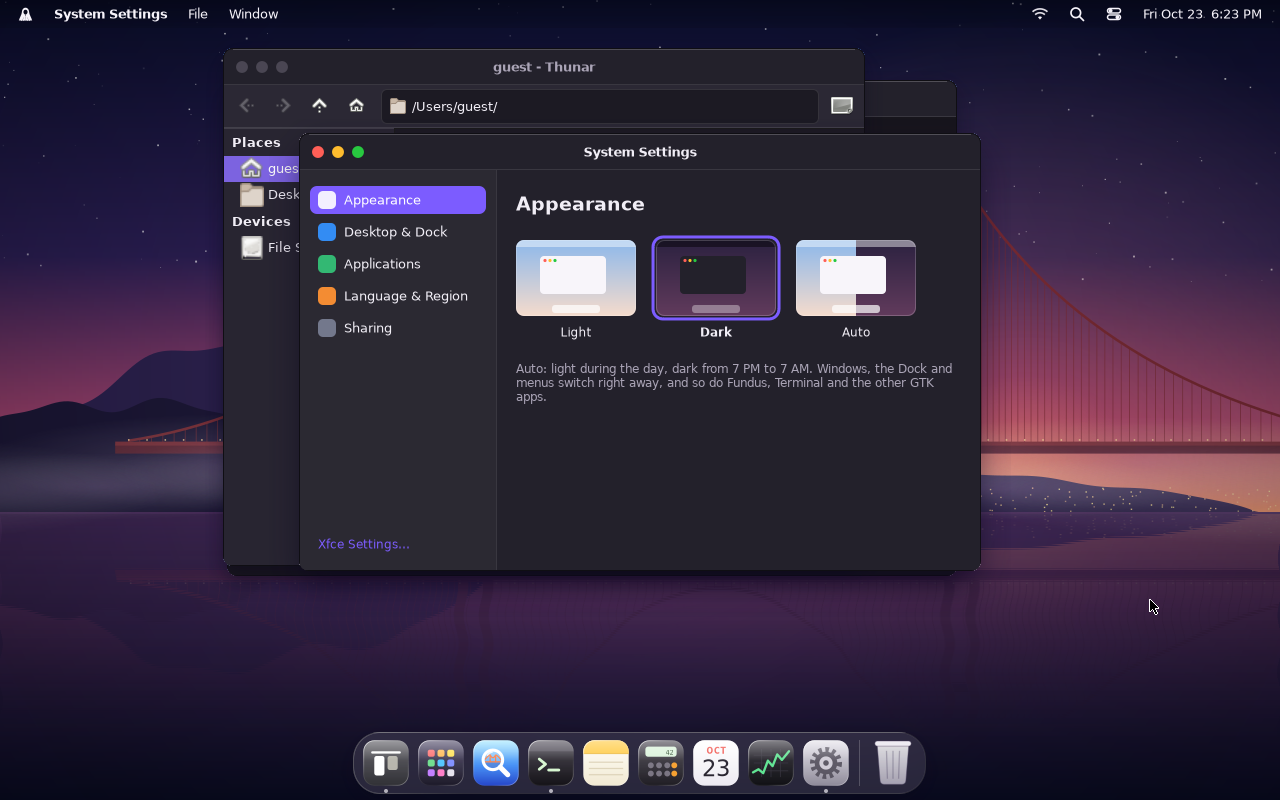
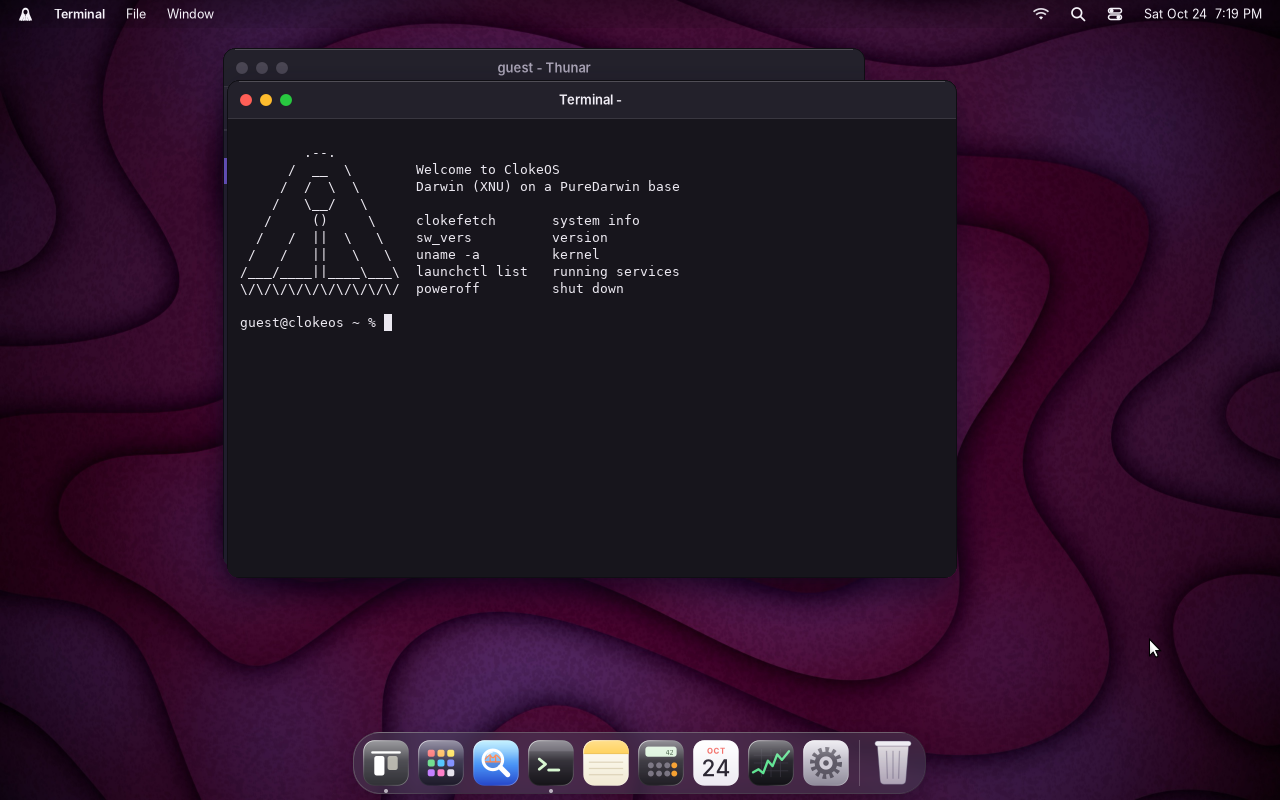
README: new wallpaper, multi-core, I2C touchpad and payload driver; new screenshots

diff --git a/README.md b/README.md
@@ -118,7 +118,7 @@ cd clokeos-darwin && CLOKEOS_FLAVOR=desktop ./brand.sh && CLOKEOS_FLAVOR=desktop
 
 CloakServer (`clokeos-darwin/cloakserver/`) is ClokeOS' window server, for now an X11 window manager with its own UI, written in C with Xlib, cairo, pango and librsvg:
 
-- Wallpaper "Golden Gate": `drawBay()` from `clokeos.html` ported line by line to cairo (`wall.c`) with the same random generator, so stars, lights and fog sit in the same places; light by day, dark from 7 pm to 7 am
+- Wallpaper: pink papercut layers (`wallpapers/make.swift` builds the light and the plum dark variant from the artwork into `overlay-desktop/Library/ClokeOS/Wallpapers/`, `wall.c` draws it covering the screen); the old "Golden Gate" bridge stays as a fallback if the files are missing. The HTML prototype still has the bridge
 - Menu bar: ClokeOS menu (About ClokeOS, System Settings, Activity Monitor, Applications, Sleep, Restart…, Shut Down…, Restart in Recovery…, Log Out), the active app's name and menus, network with IP address, search (opens Launchpad), appearance (auto, light, dark), clock with date
 - Global menu bar as on macOS: the active app's menus sit at the top next to the cape, not in the window, with submenus, check marks and shortcuts written as on macOS (⌃⌥⇧⌘). GTK apps like Fundus (Thunar) and Terminal export their menu bar via the GTK module `appmenu-gtk-module` over D-Bus (from vala-panel-appmenu 25.04, LGPL-3, with a small patch, `menubar/appmenu-clokeos.patch`); the helper `cloakmenu` reads it as the logged-in user and passes it to CloakServer. Mac apps put their menu into the window property `_CLOKE_MENU`; Darling's AppKit does that (`macapps/appkit/clokemenu.m`)
 - Language as on macOS: English by default, German in System Settings > Language & Region and in the setup assistant. CloakServer, login, menu bar and app names switch immediately; date and clock follow the language. Strings are English in the code, `L()` translates them (`cloakserver/l10n.c`, translations in `strings-de.h`, also for the installer; `cloakserver/l10n-check.py` reports missing ones). App bundles have English names (Notes.app, Calculator.app …), their German names are in `Contents/Resources/de.lproj/InfoPlist.strings` as on macOS
@@ -225,7 +225,7 @@ Measured on a Mac with Apple silicon (minimal image, time from QEMU start; the l
 
 Drivers ClokeOS uses: virtio disk and network (`IOVirtIOBlock`, `IOVirtIONet`), NVMe (`IONVMEFamily`), SATA (`RavynAHCIPort`), xHCI with USB keyboard, mouse and mass storage (`RavynXHCIPort`, `IOUSBHIDDriver`), Realtek RTL8111 and Intel 82545EM LAN, display via GOP. Missing:
 
-- **More than one CPU core.** PureDarwin only starts the first core.
+- **More than one CPU core** works with PureDarwin's `PDACPIPlatform` (uACPI interpreter, reads the MADT, starts the other cores): `kext/build.sh` builds `kernel` with it and `kernel-up` without. Four cores in QEMU; on real PCs hold **U** at power-on to load `kernel-up` if the multi-core kernel does not start.
 - **Graphics acceleration.** Drawing is in software.
 - **Wi-Fi, I²C touchpads, audio on most hardware.**
 
@@ -238,7 +238,8 @@ Drivers ClokeOS uses: virtio disk and network (`IOVirtIOBlock`, `IOVirtIONet`), 
 - **ClokePS2** takes over the PS/2 controller (i8042) instead of PureDarwin's ApplePS2Controller, which only passes keys to the text console and has no mouse driver at all. It translates scan codes (set 1) into HID usages, supports PS/2 mice and touchpads in PS/2 mode with wheel, and creates `/dev/clokeos_kbd` and `/dev/clokeos_mouse` in the format of PureDarwin's USB HID devices, which Xorg's `puredarwininput` reads (`overlay-desktop/etc/X11/xorg.conf`). Tested in QEMU with `CLOKEOS_VM_INPUT=ps2` (keys, pointer movement, clicks).
 - `inputfix.py` completes the key table in `puredarwininput`: Insert, Home, Delete, End, Page Up/Down, Print, the whole keypad, the ISO key `<>|` and the menu key were missing, for USB keyboards too.
 
-Next: an I²C HID touchpad driver (Intel LPSS DesignWare I²C). PureDarwin has no ACPI interpreter, so when started from the USB stick the loader copies the firmware's ACPI tables onto the stick (`\ClokeOS\ACPI`), which is where a notebook's touchpad bus, address and interrupt pin are described.
+- **ClokeI2CHID** drives I²C HID touchpads on Intel LPSS (DesignWare I²C): it assigns BAR0 itself when the firmware left it empty (HP notebooks), probes the usual addresses, parses the report descriptor and polls every 10 ms; `/dev/clokeos_touchpad`. With the uACPI interpreter in `PDACPIPlatform` the touchpad's real address and GPIO interrupt could be read from the ACPI tables instead; the loader still copies the firmware's ACPI tables onto the stick (`\ClokeOS\ACPI`) for analysis.
+- **ClokePayload** serves the install images that the loader staged in reserved memory as `/dev/clokeos_payload`, because PureDarwin's USB mass storage driver fails after a few dozen MB on real hardware.
 
 ### Recovery and installation
 
